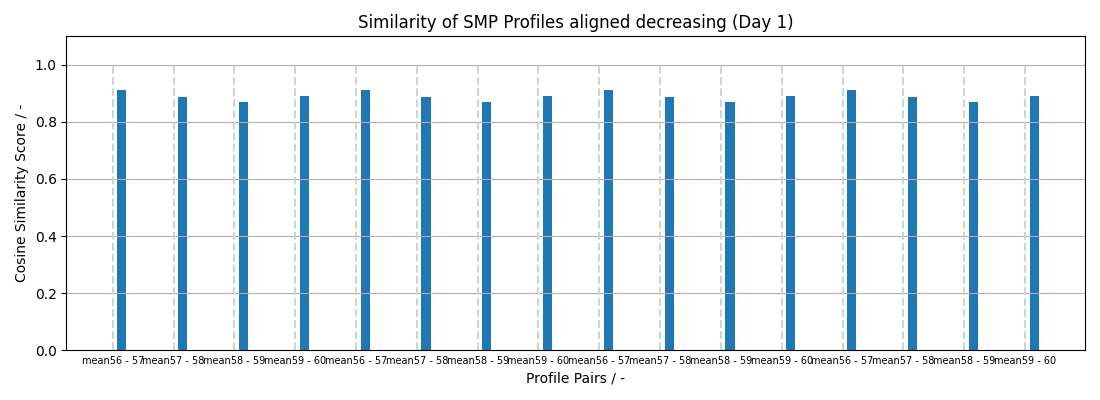
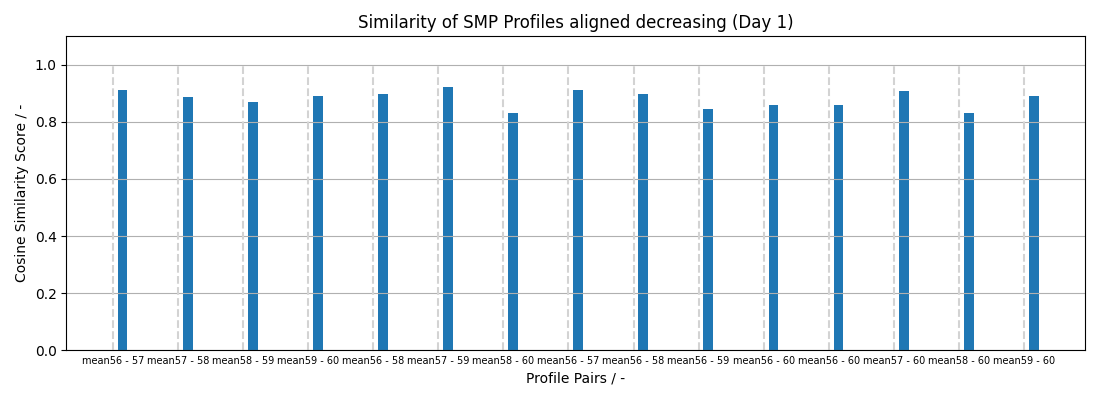
working on means, plots not working right...

Changed region(s): [[0.1236, 0.21, 0.9582, 0.93]]

diff --git a/code_SMP/similarity_mean.py b/code_SMP/similarity_mean.py
@@ -15,14 +15,19 @@ from code_SMP.similarity import similarity, plot_similarity_scores, load_offset_
 if __name__ == "__main__":
     smp_profiles = load_all_smp_profiles()
 
-    type = "pairs"  # can be "pairs", "first", "first_mean", "double", "single", "increasing", "decreasing"
-    paired_profiles = build_pairs_from_list(smp_profiles, pairs)
+    for inital_type in ["pairs"]:
+        if inital_type == "pairs":
+            paired_profiles = build_pairs_from_list(smp_profiles, pairs)
+        elif inital_type == "first":
+            paired_profiles = build_pairs_from_list(smp_profiles, first)
 
     data_by_day = {1: [], 2: []}
     mean_profiles = {}
+    aligned_profiles = {} #only for type first
     cache_path = "output/similarity_scores/offset_cache.pkl"
     cache = load_offset_cache(cache_path)
-    print(f"\nSimilarity scores for manually defined {type} pairs:\n")
+    print(f"\nSimilarity scores for manually defined {inital_type} pairs:\n")
+
     for df1, name1, df2, name2 in paired_profiles:
         # Step 1: crosscorrelate pairs
         #check if crosscorr is already in cache 
@@ -40,17 +45,27 @@ if __name__ == "__main__":
         # Step 2: Align profiles
         df1, df2 = align_profiles(df1, df2, name1, name2, lag, plot=True)
 
+        if inital_type == "first":
+            aligned_profiles = (df1, df2)
+            continue
         # Step 3: Calculate mean 
         mean_force = (df1["force"].values + df2["force"].values) / 2
         day = df1.attrs.get("date", 0)
         # save in dict
         mean_profiles[name1] = (mean_force, day)
-
+    if inital_type == "first":
+        mean = (aligned_profiles[0]["force"].values + aligned_profiles[1]["force"].values) / 2
     for type in ["single", "double", "increasing", "decreasing"]:
         if type == "single":
             paired_means = build_pairs_from_list(mean_profiles, single_distance_pairs)
             #df1 = mean_profiles[0]
-            
+        elif type == "double":
+            paired_means = build_pairs_from_list(mean_profiles, double_distance_pairs)
+        elif type == "increasing":
+            paired_means = build_pairs_from_list(mean_profiles, increasing_distance_pairs)
+        elif type == "decreasing":
+            paired_means = build_pairs_from_list(mean_profiles, decreasing_distance_pairs)
+
         for df1, name1, df2, name2 in paired_means:
             # step over if pair has none 
             if df1 is None or df2 is None:
@@ -77,7 +92,7 @@ if __name__ == "__main__":
                 "cosine": cosine
             })
 
-    # Step 5: plot similarity scores and save as .txt
-    for day in sorted(data_by_day):
-        if data_by_day[day]:
-            plot_similarity_scores(data_by_day[day], day, alignment=type, savedir="output/similarity_scores/mean")
+        # Step 5: plot similarity scores and save as .txt
+        for day in sorted(data_by_day):
+            if data_by_day[day]:
+                plot_similarity_scores(data_by_day[day], day, alignment=type, savedir="output/similarity_scores/mean")
